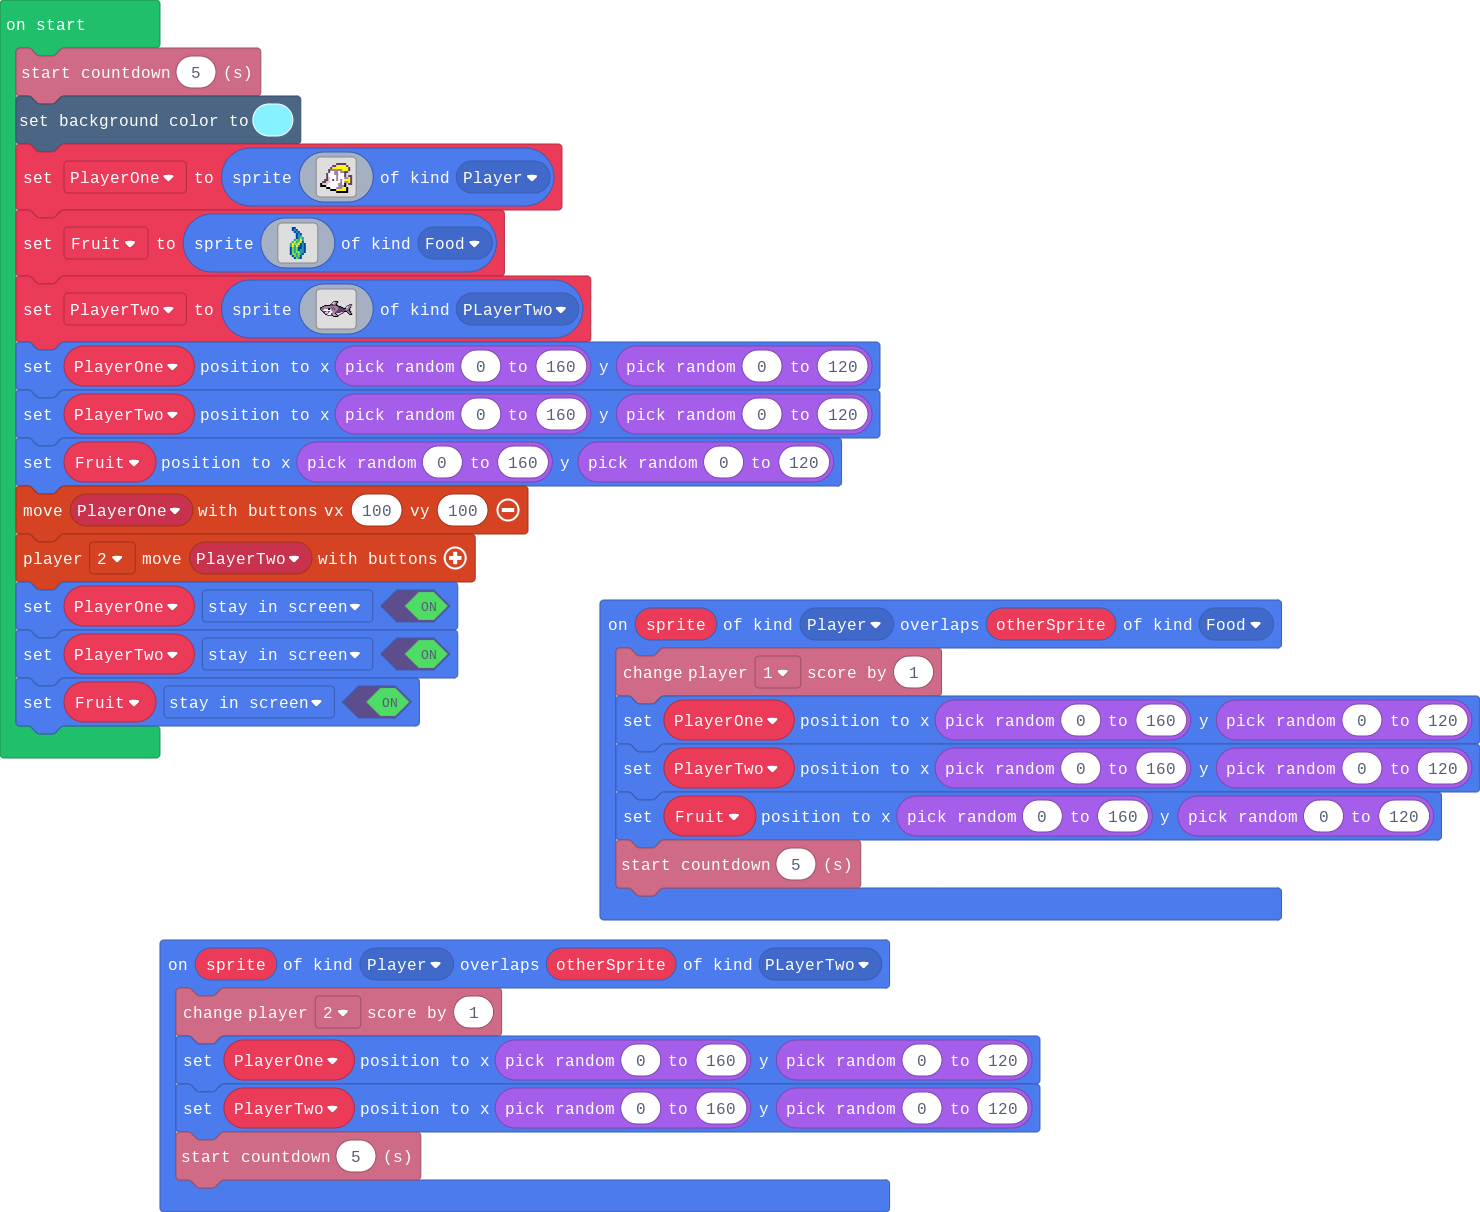
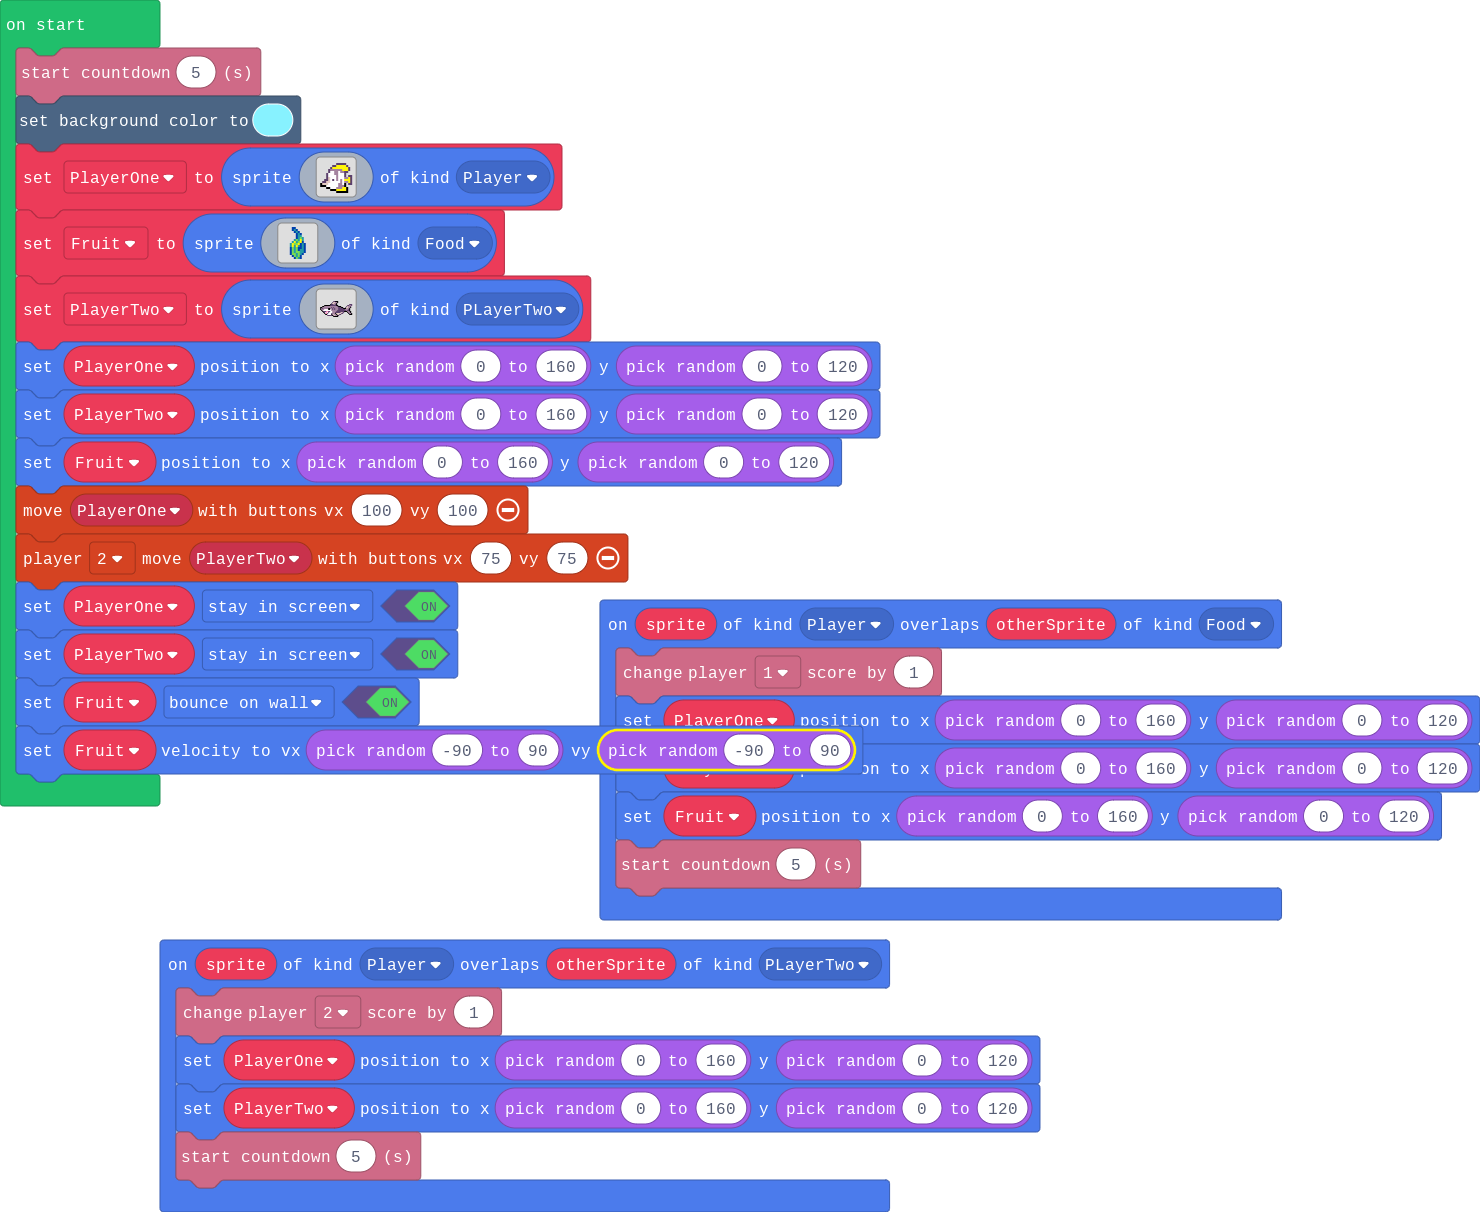
I slowed down the shark so that it is easier for the fish to dodge and also made the fruit bounce off the wall

Changed region(s): [[0.0, 0.58, 0.5905, 0.6716], [0.3108, 0.4274, 0.4351, 0.4884]]

diff --git a/main.ts b/main.ts
@@ -77,7 +77,8 @@ PlayerOne.setPosition(Math.randomRange(0, 160), Math.randomRange(0, 120))
 PlayerTwo.setPosition(Math.randomRange(0, 160), Math.randomRange(0, 120))
 Fruit.setPosition(Math.randomRange(0, 160), Math.randomRange(0, 120))
 controller.moveSprite(PlayerOne, 100, 100)
-controller.player2.moveSprite(PlayerTwo)
+controller.player2.moveSprite(PlayerTwo, 75, 75)
 PlayerOne.setFlag(SpriteFlag.StayInScreen, true)
 PlayerTwo.setFlag(SpriteFlag.StayInScreen, true)
-Fruit.setFlag(SpriteFlag.StayInScreen, true)
+Fruit.setFlag(SpriteFlag.BounceOnWall, true)
+Fruit.setVelocity(Math.randomRange(-90, 90), Math.randomRange(-90, 90))
